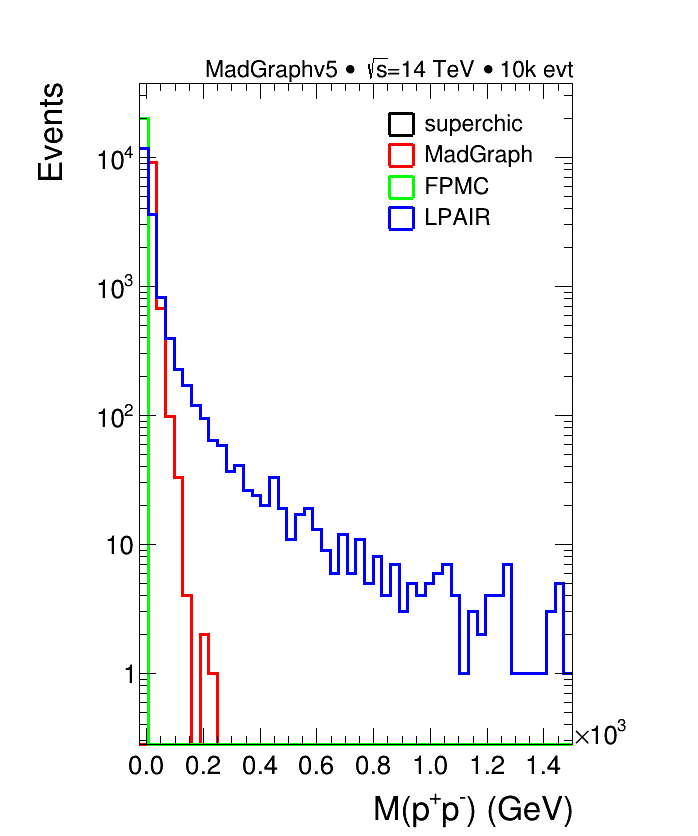
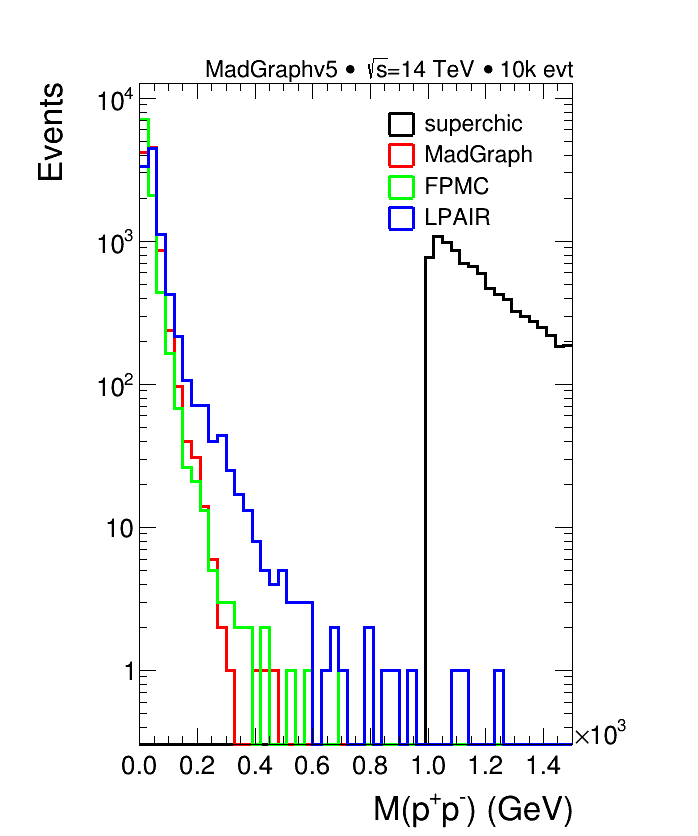
Atualização

diff --git a/graficos/grafico_final_full.py b/graficos/grafico_final_full.py
@@ -125,22 +125,26 @@ DDDetacost	= [];
 DDDmllcost	= [];
 DDDth1th2	= [];
 # 2D:
-DDpt1pt2	= [];
-DDphi1phi2	= [];
-DDptsumphi	= [];
-DDpt1ptsum	= [];
-DDpt2ptsum	= [];
-DDmllptsum	= [];
-DDetatheta	= [];
-DDetacost	= [];
-DDmllcost	= [];
-DDth1th2	= [];
+#DDpt1pt2	= [];
+#DDphi1phi2	= [];
+#DDptsumphi	= [];
+#DDpt1ptsum	= [];
+#DDpt2ptsum	= [];
+#DDmllptsum	= [];
+#DDetatheta	= [];
+#DDetacost	= [];
+#DDmllcost	= [];
+#DDth1th2	= [];
+DDmppmmumu      = []
+DDchipchimu     = []
 
 # SETTING THE NUMBER OF DIGITS ON AXIS
 TGaxis.SetMaxDigits(2)
 
 # SORTING THE DISTRIBUTIONS WITHIN THE SETS:
 # THE ARRAYS STORE THE LABELS FOR AXIS AND UNITS:
+
+# 1D
 histoslog        = [protpz,proten,protxi,protpt,proteta,mpp,mupz,muen,mupt,ivm_mu,mueta,phopz,phopt,phoen];
 histoslog_label  = ["protpz","proten",'protxi','protpt','proteta','mpp',"mupz","muen","mupt",'ivm_mu','mueta','phopz','phopt','phoen'];
 histoslog_axis   = ["p_{z}(p)","E(p)",'#chi(p)','p_{T}(p)','#eta(p^{+}p^{-})','M(p^{+}p^{-})',"p_{z}(#mu)","E(#mu)","p_{T}(#mu)",'M(#mu^{+}#mu^{-})','#eta(#mu^{+}#mu^{-})','p_{z}(#alpha)','p_{T}(#alpha)','E(#alpha)'];
@@ -160,12 +164,20 @@ legoslog_varz    = ["(nb/GeV^{2})","(nb)","(nb/GeV*deg)","(nb/GeV^{2})","(nb/GeV
 legoslog_varx    = ["(GeV)","(deg)","(GeV)","(GeV)","(GeV)","(GeV)","","","","(GeV)","(deg)"];
 legoslog_vary    = ["(GeV)","(deg)","","(GeV)","(GeV)","(GeV)","(GeV)","(deg)","","","(deg)"];
 
-DDlog         = [DDpt1pt2,DDphi1phi2,DDptsumphi,DDpt1ptsum,DDpt2ptsum,DDmllptsum,DDetatheta,DDetacost,DDmllcost,DDth1th2];
-DDlog_label   = ["2Dpt1pt2","2Dphi1phi2","2Dptsumphi","2Dpt1ptsum","2Dpt2ptsum","2Dmllptsum","2Detatheta","2Detacost","2Dmllcost","2Dth1th2"];
-DDlog_xaxis   = ["p_{T}(x^{+})","#phi(x^{+})","p_{T}(x^{+}x^{-})","p_{T}(x^{+})","p_{T}(x^{-})","M(x^{+}x^{-})","#eta(x^{+}x^{-})","#eta(x^{+}x^{-})","M(x^{+}x^{-})","#theta_{1}"];
-DDlog_yaxis   = ["p_{T}(x^{-})","#phi(x^{-})","#phi(x^{#pm})","p_{T}(x^{+}x^{-})","p_{T}(x^{+}x^{-})","p_{T}(x^{+}x^{-})","#theta(x^{+}x^{-})","cos#theta(x^{+}x^{-})","cos#theta(x^{+}x^{-})","#theta_{2}"];
-DDlog_varx    = ["(GeV)","(deg)","(GeV)","(GeV)","(GeV)","(GeV)","","","(GeV)","(deg)"];
-DDlog_vary    = ["(GeV)","(deg)","","(GeV)","(GeV)","(GeV)","(deg)","","","(deg)"];
+# 2D
+DDlog         = [DDmppmmumu,DDchipchimu] 
+DDlog_label   = ["2Dmppmmumu",'2Dchipchimu'];
+DDlog_xaxis   = ["M(p^{+}p^{-})",'#chi(p^{+})']
+DDlog_yaxis   = ["M(#mu^{+}#mu^{-})",'#chi(#mu^{+})']
+DDlog_varx    = ["(GeV)",'']
+DDlog_vary    = ["(GeV)",'']
+
+#DDlog         = [DDpt1pt2,DDphi1phi2,DDptsumphi,DDpt1ptsum,DDpt2ptsum,DDmllptsum,DDetatheta,DDetacost,DDmllcost,DDth1th2];
+#DDlog_label   = ["2Dpt1pt2","2Dphi1phi2","2Dptsumphi","2Dpt1ptsum","2Dpt2ptsum","2Dmllptsum","2Detatheta","2Detacost","2Dmllcost","2Dth1th2"];
+#DDlog_xaxis   = ["p_{T}(x^{+})","#phi(x^{+})","p_{T}(x^{+}x^{-})","p_{T}(x^{+})","p_{T}(x^{-})","M(x^{+}x^{-})","#eta(x^{+}x^{-})","#eta(x^{+}x^{-})","M(x^{+}x^{-})","#theta_{1}"];
+#DDlog_yaxis   = ["p_{T}(x^{-})","#phi(x^{-})","#phi(x^{#pm})","p_{T}(x^{+}x^{-})","p_{T}(x^{+}x^{-})","p_{T}(x^{+}x^{-})","#theta(x^{+}x^{-})","cos#theta(x^{+}x^{-})","cos#theta(x^{+}x^{-})","#theta_{2}"];
+#DDlog_varx    = ["(GeV)","(deg)","(GeV)","(GeV)","(GeV)","(GeV)","","","(GeV)","(deg)"];
+#DDlog_vary    = ["(GeV)","(deg)","","(GeV)","(GeV)","(GeV)","(deg)","","","(deg)"];
 
 # STARTING THE LOOP OVER FILES:
 for i in range(len(FILES)):
@@ -185,12 +197,14 @@ for i in range(len(FILES)):
     #acop_zoom.append(TH1D("1D_acopz"+"_"+PDF[i]     , "", 50,  -.01,   1.));
     #dphi.append(TH1D("1D_dphi"+"_"+PDF[i]           , "", 50,  0., 181.));
     #dphi_zoom.append(TH1D("1D_dphiz"+"_"+PDF[i]     , "", 50,175., 180.1));
+
+    # 1D
     protpz.append(TH1D("1D_protpz"+"_"+PDF[i]       , "", 50,4300., 7200.))
     proten.append(TH1D("1D_proten"+"_"+PDF[i]       , "", 50,4300., 7200.))
     protxi.append(TH1D("1D_protxi"+"_"+PDF[i]       , "", 50,-0.01,0.05))
     protpt.append(TH1D("1D_protpt"+"_"+PDF[i]       , "", 50,-0.1, 1.))
     proteta.append(TH1D("1D_proteta"+"_"+PDF[i]       , "", 50,-20., 20.))
-    mpp.append(TH1D("1D_mpp"+"_"+PDF[i]       , "", 50,-25., 1500.))
+    mpp.append(TH1D("1D_mpp"+"_"+PDF[i]       , "", 50,0., 1500.))
     mupz.append(TH1D("1D_mupz"+"_"+PDF[i]       , "", 50,-2500.,2500.))
     muen.append(TH1D("1D_muen"+"_"+PDF[i]       , "", 50,-100., 900.))
     mupt.append(TH1D("1D_mupt"+"_"+PDF[i]       , "", 50,-5., 40.0))
@@ -213,6 +227,10 @@ for i in range(len(FILES)):
     #DDDetacost.append(TH2D("3D_eta_cost_"+PDF[i]    , "", 50,-15.,  15., 50,-1.,   1.));
     #DDDmllcost.append(TH2D("3D_mll_cost_"+PDF[i]    , "", 50,  0., 300., 50,-1.,   1.));
     #DDDth1th2.append(TH2D("3D_th1_th2_"+PDF[i]      , "", 45,  0., 180., 45, 0., 180.));
+
+    # 2D
+    DDmppmmumu.append(TH2D('2D_mpp_mmumu_'+PDF[i]       , '', 50, 0., 1400., 50, 0., 1400.))
+    DDchipchimu.append(TH2D('2D_chip_chimu_'+PDF[i]       , '', 50, 0., 1., 50, 0., 1.))
     #DDpt1pt2.append(TH2D("2D_pt1_pt2_"+PDF[i]       , "", 50,  0.,  60., 50, 0.,  60.));
     #DDphi1phi2.append(TH2D("2D_phi1_phi2_"+PDF[i]   , "", 45,  0., 180., 45, 0., 180.));
     #DDptsumphi.append(TH2D("2D_ptsum_phi_"+PDF[i] 	, "", 50,  0., 120., 45, 0., 180.));
@@ -306,7 +324,6 @@ for i in range(len(FILES)):
             pz = float(coll[8]);
             en = float(coll[9]);
             dpp.SetPxPyPzE(px,py,pz,en);
-            FLAG_M = True if abs(dpp.Pt()) > 0 else False
         elif coll[0] == '2212' and coll[1] == '1' and eval(coll[8]) < 0 and abs(eval(coll[8])) < 7000:
             dpm = TLorentzVector();
             px = float(coll[6]);
@@ -314,9 +331,7 @@ for i in range(len(FILES)):
             pz = float(coll[8]);
             en = float(coll[9]);
             dpm.SetPxPyPzE(px,py,pz,en);
-            FLAG_M = True if abs(dpm.Pt()) > 0 else False
         # CLOSE EVENT AND FILL HISTOGRAMS:
-        #print ("OI 2");
         elif coll[0] == "</event>":
             # KINEMATICS OF DECAY PRODUCTS:
             if ( cuts and INNER
@@ -441,11 +456,7 @@ for i in range(len(FILES)):
                 proten[i].Fill(dpm.E())
                 protxi[i].Fill(1-(dpp.Pz()/7000))
                 protxi[i].Fill(1-(dpm.Pz()/(-7000)))
-                if FLAG_M:
-                    mpp[i].Fill(dpp.M())
-                    mpp[i].Fill(dpm.M())
-                else:
-                    mpp[i].Fill(sqrt((1-(dpp.Pz()/7000))*(1-(dpm.Pz()/(-7000))))*7000)
+                mpp[i].Fill(sqrt((1-(dpp.Pz()/7000))*(1-(dpm.Pz()/(-7000))))*14000)
                 protpt[i].Fill(dpp.Pt())
                 protpt[i].Fill(dpm.Pt())
                 proteta[i].Fill(dpp.Eta())
@@ -502,8 +513,11 @@ for i in range(len(FILES)):
                 DDDetatheta[i].Fill((dp+dm).Eta(),(dp+dm).Theta()*180./3.141592);
                 DDDetacost[i].Fill((dp+dm).Eta(),(dp+dm).CosTheta());
                 DDDth1th2[i].Fill(dp.Theta()*180./3.141592,dm.Theta()*180./3.141592);
+                '''
                 # 2D:
-                DDpt1pt2[i].Fill(dp.Pt(),dm.Pt());
+                DDmppmmumu[i].Fill(sqrt((1-(dpp.Pz()/7000))*(1-(dpm.Pz()/(-7000))))*14000, (dmu+damu).M())
+                DDchipchimu[i].Fill(1-(dpp.Pz()/7000), 1-(dmu.Pz()/7000))
+                '''DDpt1pt2[i].Fill(dp.Pt(),dm.Pt());
                 DDphi1phi2[i].Fill(dp.Phi()*180./3.141592,dm.Phi()*180./3.141592);
                 DDpt1ptsum[i].Fill(dp.Pt(),(dp+dm).Pt());
                 DDpt2ptsum[i].Fill(dm.Pt(),(dp+dm).Pt());
@@ -615,3 +629,12 @@ for l in range(len(histoslog)):
         dataonly.SetLineStyle(2);
         dataonly.SetFillColor(0);
         dataonly.SaveAs(FILE_TYPES[k]+"/"+JOB+"_"+EVTINPUT+"evt_"+histoslog_label[l]+".root");
+# END loop over plots in log scale
+
+FILEROOT.Write();
+
+#####################################################################
+#
+# C'ESTI FINI
+#
+#####################################################################

diff --git a/graficos/LHE-Proton-Writer-superchic.py b/graficos/LHE-Proton-Writer-superchic.py
@@ -1,4 +1,5 @@
 import sys
+from ROOT import *
 '''
     Dependendo da origem do gerador de eventos eles tem espaçamento e precisão diferentes
 '''
@@ -22,7 +23,7 @@ eini = 7000		# energia inicial dos protons
 
 # Massa de repouso do proton: 0.9382720882E+00
 
-
+lvector = TLorentzVector()
 with open(new, 'w') as new:
     i = 0
     while True:
@@ -30,12 +31,13 @@ with open(new, 'w') as new:
             j = 0
             while linhas[i+j] != ' </event>\n':
                 if linhas[i+j].split()[0] == '22':
-                    px = f'{-eval(linhas[i+j].split()[6]):.9e}' if -eval(linhas[i+j].split()[6]) < 0 else f'+{-eval(linhas[i+j].split()[6]):.9e}'
-                    py = f'{-eval(linhas[i+j].split()[7]):.9e}' if -eval(linhas[i+j].split()[7]) < 0 else f'+{-eval(linhas[i+j].split()[7]):.9e}'
-                    pzf = eval(linhas[i+j].split()[8])
+                    linha = linhas[i+j].split()
+                    px = f'{-eval(linhas[i+j].split()[6]):.9e}' if -eval(linha[6]) < 0 else f'+{-eval(linhas[i+j].split()[6]):.9e}'
+                    py = f'{-eval(linhas[i+j].split()[7]):.9e}' if -eval(linha[7]) < 0 else f'+{-eval(linhas[i+j].split()[7]):.9e}'
+                    pzf = eval(linha[8])
                     sign = (pzf/abs(pzf))
                     pzp = pzini*sign - pzf
-                    ef = eval(linhas[i+j].split()[9])
+                    ef = eval(linha[9])
                     ep = eini - ef
                     if sign > 0: linhas.insert(i+j+2, ' '*13+f'2212{" "*8}1    0    0    0    0 {px} {py} +{pzp:.9e}  {ep:.9e}  0.938272088E+00 0. 1.\n')
                     else: linhas.insert(i+j+2, ' '*13+f'2212{" "*8}1    0    0    0    0 {px} {py} {pzp:.9e}  {ep:.9e}  0.938272088E+00 0. -1.\n')
@@ -43,5 +45,15 @@ with open(new, 'w') as new:
         i += 1
         if i == len(linhas): break
     for line in linhas:
+        linha = line.strip().split()
+        if(len(linha) > 1 and linha[0] == '2212'):
+            lvector.SetPxPyPzE(float(linha[6]), float(linha[7]), float(linha[8]), float(linha[9]))
+            print(f'M(p) = {lvector.M()}')
+        if(len(linha) > 1 and linha[0] == '13'):
+            lvector.SetPxPyPzE(float(linha[6]), float(linha[7]), float(linha[8]), float(linha[9]))
+            print(f'M(\u03BC+) = {lvector.M()}')
+        if(len(linha) > 1 and linha[0] == '-13'):
+            lvector.SetPxPyPzE(float(linha[6]), float(linha[7]), float(linha[8]), float(linha[9]))
+            print(f'M(\u03BC) = {lvector.M()}\n*-*-*-*-*-*-*-*-*-*-*')
         new.write(line[1:])
 
